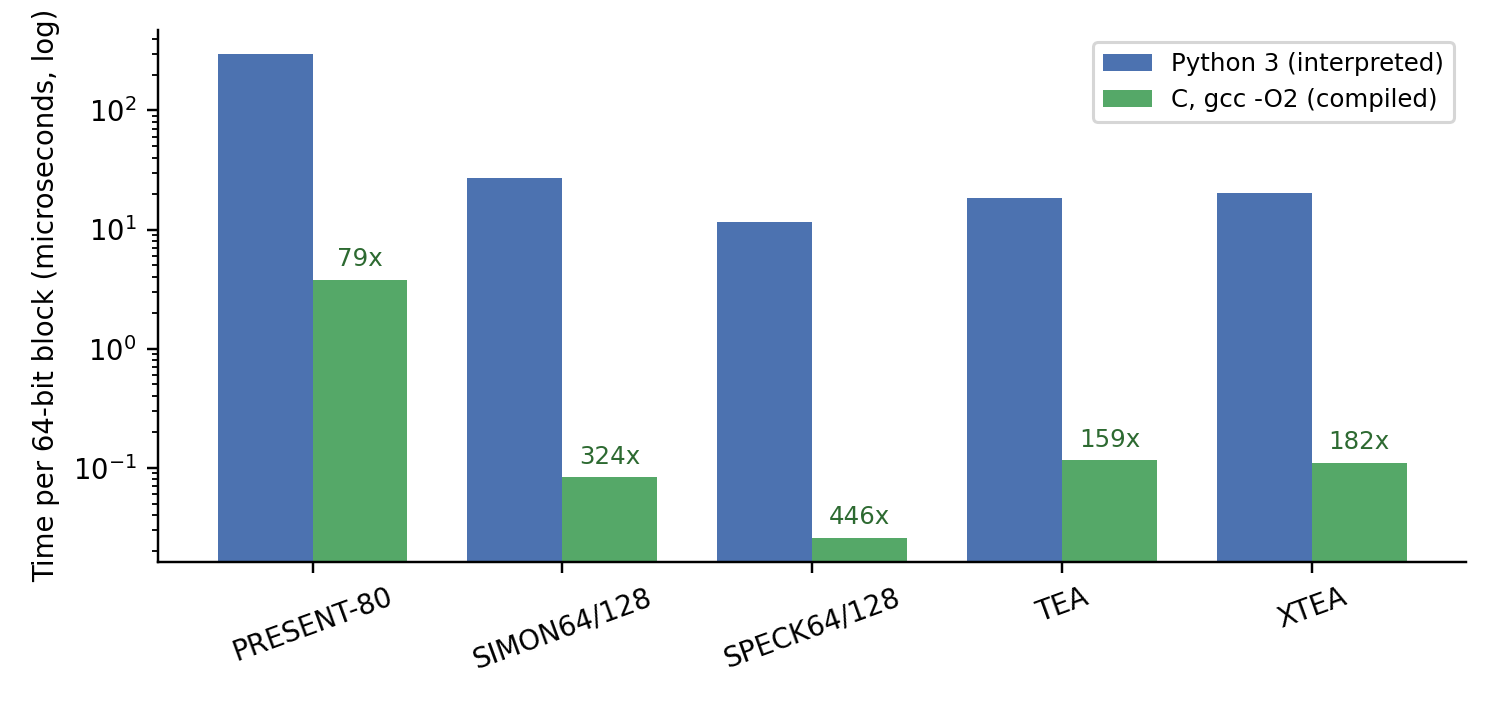
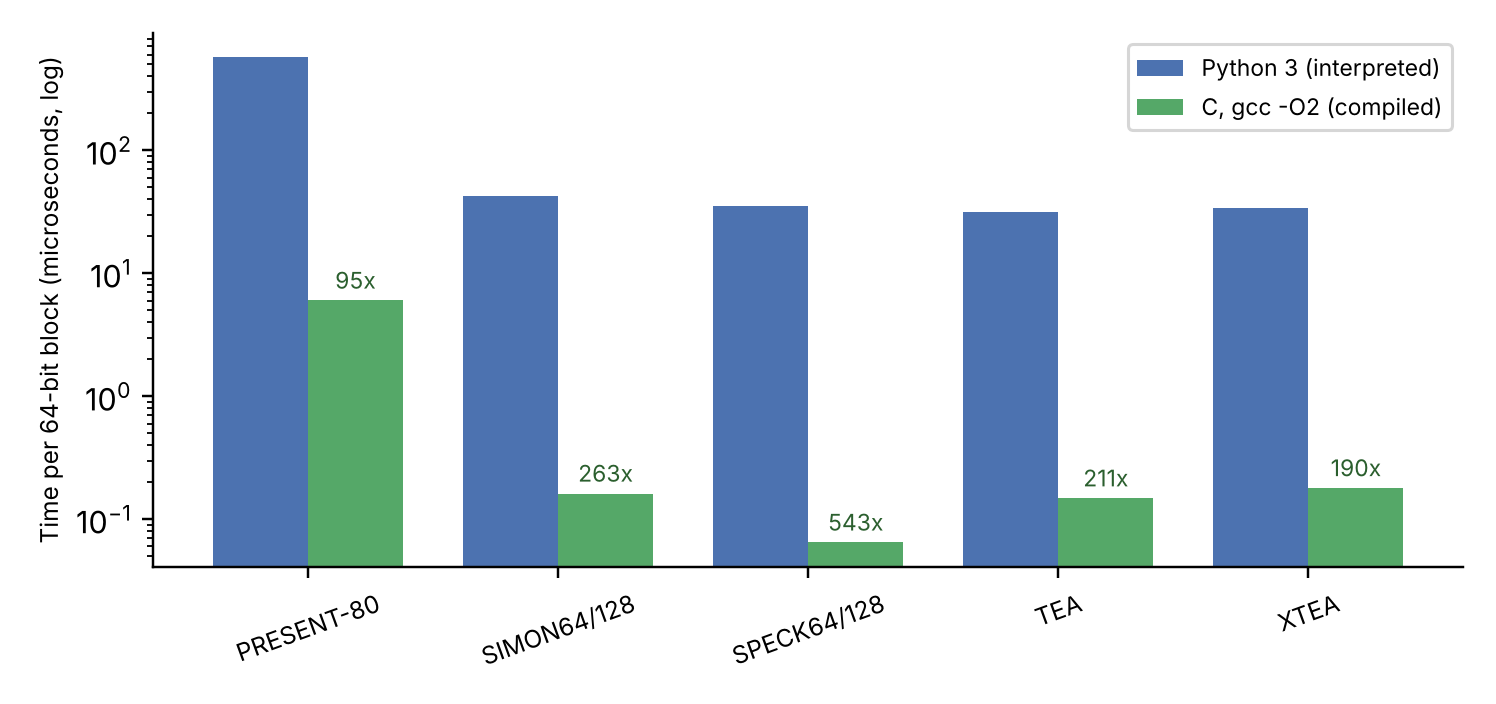
Add files via upload

diff --git a/software/figures_bench.py b/software/figures_bench.py
@@ -1,0 +1,27 @@
+"""Draws the interpreted-versus-compiled timing figure (fig_c_bench.png)
+from bench_results.json (Python timings) and results_c.json (C timings)."""
+import json
+import matplotlib
+matplotlib.use('Agg')
+import matplotlib.pyplot as plt
+import numpy as np
+
+py = json.load(open('bench_results.json'))['results']
+c = json.load(open('results_c.json'))
+names = ['PRESENT-80', 'SIMON64/128', 'SPECK64/128', 'TEA', 'XTEA']
+t_py = [py[n]['us_per_block'] for n in names]
+t_c = [c[n]['ns_blk'] / 1000.0 for n in names]
+
+x = np.arange(len(names)); w = 0.38
+fig, ax = plt.subplots(figsize=(6.8, 3.2))
+ax.bar(x - w / 2, t_py, w, color='#4C72B0', label='Python 3 (interpreted)')
+ax.bar(x + w / 2, t_c, w, color='#55A868', label='C, gcc -O2 (compiled)')
+for i, (a, b) in enumerate(zip(t_py, t_c)):
+    ax.text(i + w / 2, b * 1.25, f'{int(a / b + 0.5)}x', ha='center', fontsize=7.5, color='#2B5F2E')
+ax.set_yscale('log')
+ax.set_ylabel('Time per 64-bit block (microseconds, log)', fontsize=8)
+ax.set_xticks(x); ax.set_xticklabels(names, rotation=20, fontsize=8)
+ax.spines['top'].set_visible(False); ax.spines['right'].set_visible(False)
+ax.legend(fontsize=7.5, loc='upper right')
+fig.tight_layout(); fig.savefig('fig_c_bench.png', dpi=220); plt.close(fig)
+print('saved fig_c_bench.png')

diff --git a/README.md b/README.md
@@ -6,8 +6,10 @@ Code and raw results for the empirical evaluation in the manuscript
 > Resource Constrained IoT Devices: Design Principles, Efficiency Trade offs, Empirical
 > Evaluation, and Open Research Gaps" (manuscript under review).
 
-Every table and figure in the empirical section of the manuscript is produced by the scripts
-in this repository.
+The values in every table of the empirical section of the manuscript are produced by the
+scripts in this repository, and the result files hold the numbers that the tables report.
+The timing values stored here were measured on Linux 6.6.159, Intel Xeon CPU at 2.20 GHz,
+Python 3.13.18.
 
 ## Ciphers
 
@@ -53,7 +55,7 @@ relative path.
 | `software/experiments2.py` | SAC matrices, exact S-box differential and linear tables, statistical tests, key schedule diffusion, ECB and CBC image encryption |
 | `software/experiments3.py` | differential probability decay, minimum active S-box count for PRESENT, avalanche z-test, statistical battery with a biased control |
 | `software/experiments4.py` | pixel correlation and key sensitivity |
-| `software/figures.py` | the data figures |
+| `software/figures.py`, `software/figures_bench.py` | the timing, avalanche and round diffusion figures |
 | `hardware/exp_new.py`, `exp_new2.py`, `exp_new3.py` | the same security metrics for GIFT-64, PRINCE, LED-64, RECTANGLE-80 |
 
 ### Constrained-device measurements
